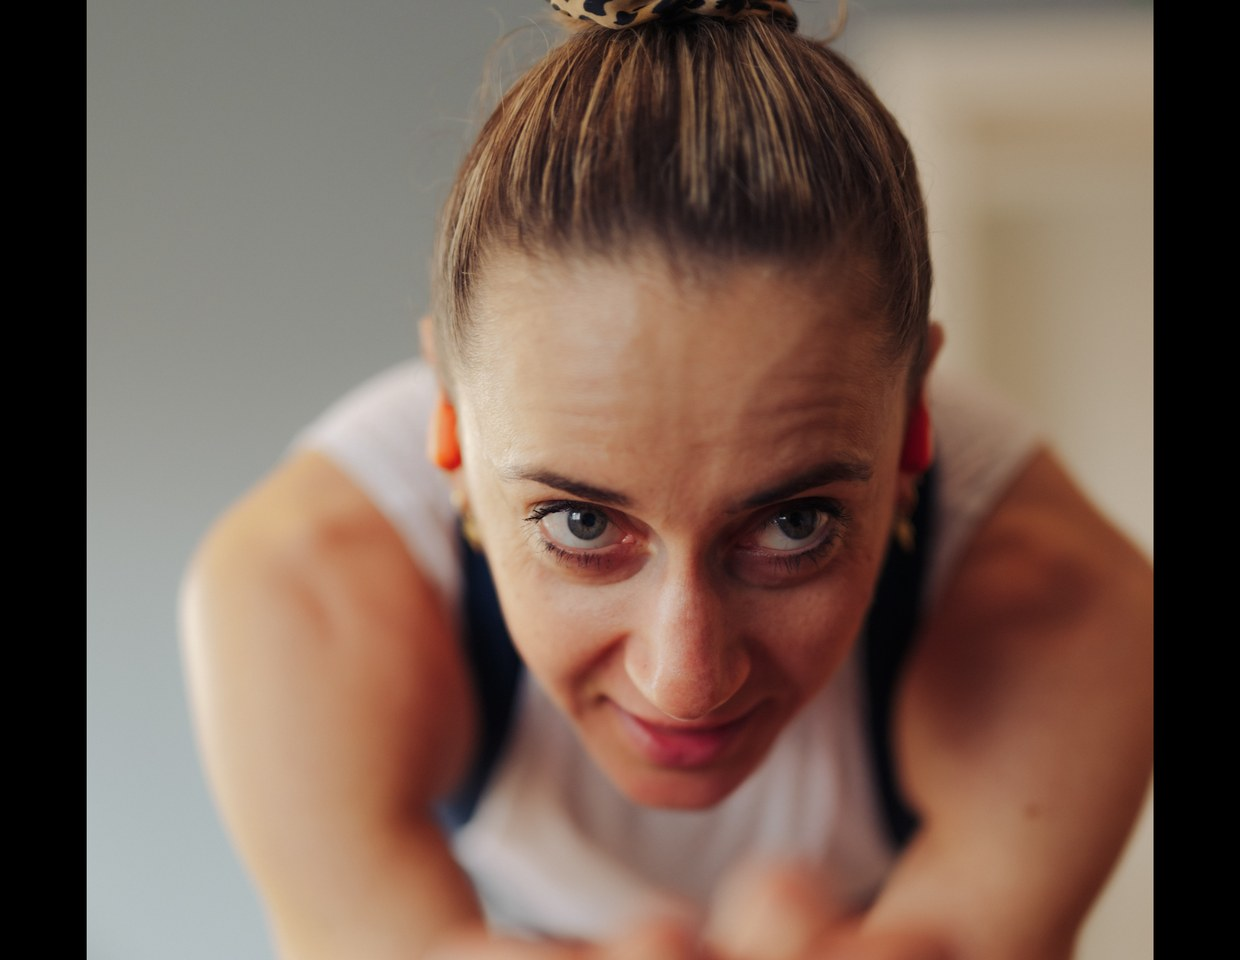
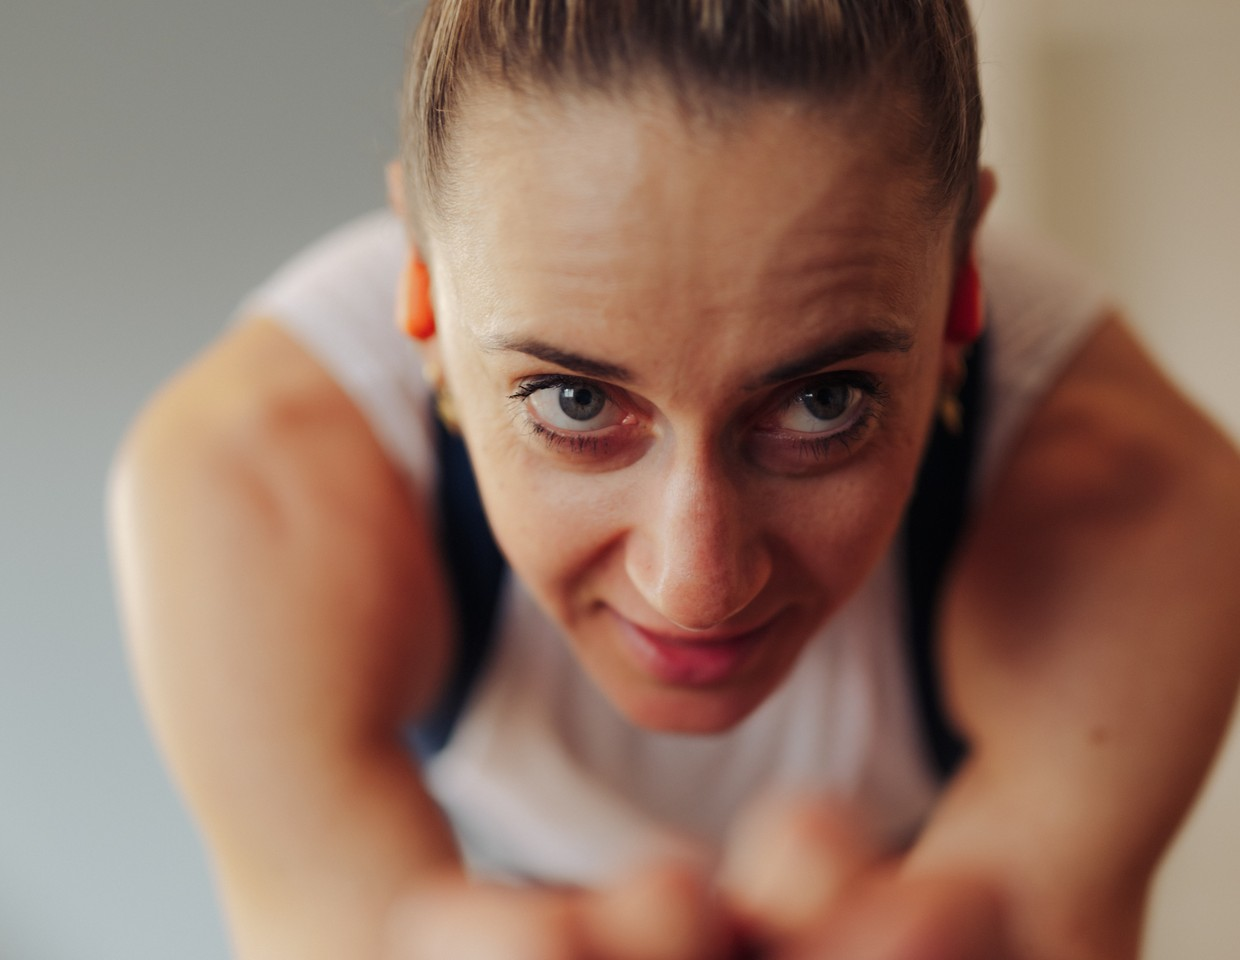
LIMITLESS: full-width hero crop, no dark side bars

diff --git a/emails/limitless/email-preview.html b/emails/limitless/email-preview.html
@@ -79,8 +79,10 @@
     /* ── HERO ── */
     .hero {
       position: relative;
+      width: 100%;
       height: 480px;
       overflow: hidden;
+      display: block;
     }
     .hero img {
       width: 100%;

diff --git a/emails/limitless/limitless-email-send.html b/emails/limitless/limitless-email-send.html
@@ -79,8 +79,10 @@
     /* ── HERO ── */
     .hero {
       position: relative;
+      width: 100%;
       height: 480px;
       overflow: hidden;
+      display: block;
     }
     .hero img {
       width: 100%;
